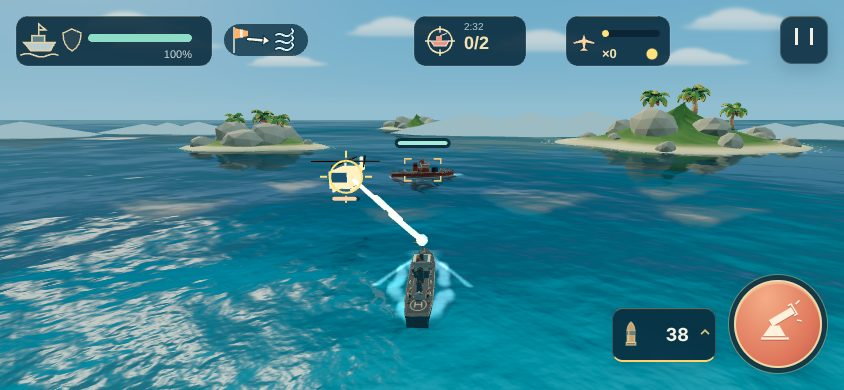
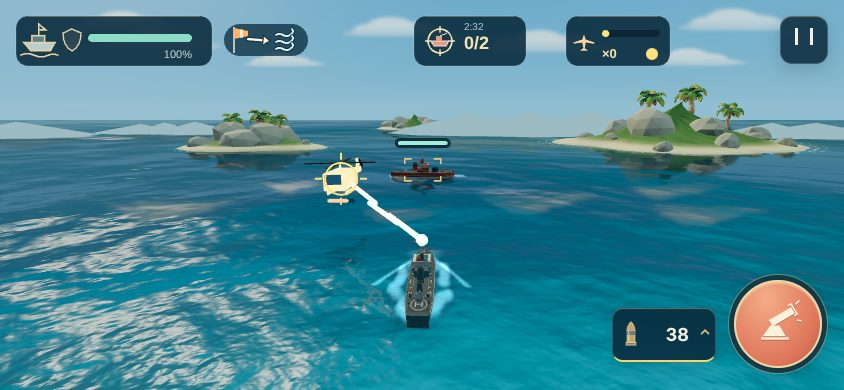
final-fix-fable: עבודה בתהליך (המשך 6)
Claude-Session: https://claude.ai/code/session_018LH5qTrdzhMgWeLGd6RUNk

diff --git a/workout/island/minigames/boar-island/game.js b/workout/island/minigames/boar-island/game.js
@@ -23,6 +23,22 @@ let aimStick=null,firePointer=null,aimZone=null,fireBtn=null,aimShots=0;
 const FIRE_V21=AIMSTICK&&new URLSearchParams(location.search).get('boarFire')!=='v20';
 let fireSource='none';const shotsBy={button:0,scene:0,keyboard:0,mouse:0,auto:0,qa:0,unknown:0},abilityBy={rocket:0,frost:0,fury:0};let stickNoButton=0,abilityFromLeft=0;
 function setFiring(on,source){pointer.down=on;fireSource=on?source:'none';}
+// 11/11/2026 (Roy, phone): the HUD hid the water where the boars come out. Compact HUD: one weapon-switch button, small round ability buttons in the right column,
+// coins/defence as thin strips in the top corners, a small wave counter, no bottom bar. `?boarHud=v20` restores the v20 cards.
+const HUD_V21=!LEGACY&&new URLSearchParams(location.search).get('boarHud')!=='v20';
+let weaponBtn=null,frames=0;
+function nextWeapon(){const owned=WEAPON_ORDER.filter(k=>save.weapons[k]);if(owned.length<2){toast('נשק נוסף נפתח במוסך');return;}switchWeapon(owned[(owned.indexOf(current)+1)%owned.length]);}
+function buildCompactHud(){
+  $('game').classList.add('hudv21');
+  weaponBtn=document.createElement('button');weaponBtn.id='weapon-btn';weaponBtn.type='button';weaponBtn.setAttribute('aria-label','החלפת נשק');
+  weaponBtn.innerHTML='<b class="wicon"></b><strong class="wname"></strong><small class="wammo"></small><i class="wbar"></i>';weaponBtn.onclick=nextWeapon;
+  $('battle-ui').append(weaponBtn);
+}
+function updateWeaponBtn(){if(!weaponBtn)return;const w=WEAPONS[current],ws=wsCache[current],s=wstate[current];weaponBtn.querySelector('.wicon').textContent=w.icon;weaponBtn.querySelector('.wname').textContent=w.short;
+  if(!ws||!s)return;const bar=weaponBtn.querySelector('.wbar');
+  if(ws.mode==='heat'){weaponBtn.querySelector('.wammo').textContent=s.overheated?'מתקרר':`חום ${Math.round(s.heat)}%`;bar.style.width=`${s.heat}%`;bar.style.background=s.overheated?'#ed7451':s.heat>70?'#ffb067':'#ffd06b';}
+  else{weaponBtn.querySelector('.wammo').textContent=s.reload>0?'טוען':`${s.ammo} / ${ws.mag}`;bar.style.width=`${s.reload>0?(1-s.reload/s.reloadMax)*100:s.ammo/ws.mag*100}%`;bar.style.background=s.reload>0?'#ffb067':'#9ad9c0';}
+  weaponBtn.classList.toggle('hot',!!s.overheated||s.reload>0);}
 function releaseFire(){pointer.down=false;fireSource='none';firePointer=null;fireBtn?.classList.remove('held');}
 function lowPulse(){if(LEGACY||mode!=='battle'||hp<=0||hp/stats(save).hp>.3)return 0;return .16+.1*Math.sin(elapsed*6);}
 let islandPaused=false,islandDisposed=false,islandFrame,islandReady=false;
@@ -169,7 +185,7 @@ function init(){
   for(const [x,z,k,y] of [[-8,-3,'scout'],[0,-8,'crab'],[7.5,-4,'runner'],[5,-18,'manta',9.5]]){const e=makeEnemy(k);e.root.position.set(x,y??groundY(x,z),z);e.baseX=x;e.root.rotation.y=-x*.03;scene.add(e.root);showcase.push(e);}
   updateQualityLabel();
   setMode('menu');resize();updateStartLabel();
-  if(AIMSTICK)buildAimControls();
+  if(AIMSTICK)buildAimControls();if(HUD_V21)buildCompactHud();
   if(QA)installQA();
   if(window.BOAR_BENCH||location.hash==='#bench')installBench();
   islandFrame=requestAnimationFrame(frame);
@@ -749,6 +765,7 @@ function updateHud(){
   $('rocket').querySelector('i').style.width=`${(1-rocketCooldown/st.rocketCd)*100}%`;$('frost').querySelector('i').style.width=`${(1-frostCooldown/st.frostCd)*100}%`;
   $('fury-text').textContent=furyTimer>0?`${Math.ceil(furyTimer)} שנ׳`:fury>=100?'מוכן':`${Math.floor(fury)}%`;$('fury').disabled=fury<100||furyTimer>0;$('fury').classList.toggle('ready',fury>=100);$('fury').querySelector('i').style.width=`${furyTimer>0?furyTimer/7*100:fury}%`;
   $('frost-veil').style.opacity=frostTimer>0?1:0;
+  updateWeaponBtn();
 }
 
 // ---------- shop ----------
@@ -787,6 +804,7 @@ function frame(t){
   if(islandDisposed)return;
   islandFrame=requestAnimationFrame(frame);
   if(islandPaused){lastTime=t;return;}
+  frames++;
   if(visible&&lastTime)adapt(t-lastTime);const raw=Math.min(.05,(t-lastTime)/1000||.016);lastTime=t;if(!visible)return;
   slowmo=Math.max(0,slowmo-raw);const dt=raw*(slowmo>0?.35:1);elapsed+=dt;world.update(elapsed);weather.update(raw);
   if(mode==='battle'){for(let i=0;i<timeScale;i++){updateBattle(dt);if(mode!=='battle')break;}}
@@ -905,7 +923,7 @@ async function runBench(){
 }
 function installQA(){
   window.__three={scene,renderer,camera,sea,sun};
-  window.__boar={get state(){return {shots:roundShots,aim:{x:+pointer.x.toFixed(3),y:+pointer.y.toFixed(3)},firing:pointer.down,fireSource,shotsBy:{...shotsBy},stickNoButton,abilityBy:{...abilityBy},abilityFromLeft,stick:!!aimStick,fireHeld:firePointer!==null,flags:{TOUCH,AIMSTICK,FIRE_V21,LEGACY},overheated:!!wstate[current]?.overheated,cool:+(wstate[current]?.cool||0).toFixed(3),swapTimer:+swapTimer.toFixed(3),paused:islandPaused,mode,wave,hp,coins:save.coins,killed,remaining:remaining(),enemies:enemies.map(e=>({kind:e.kind,hp:Math.round(e.hp),z:+e.root.position.z.toFixed(1)})),current,heat:wstate[current]?.heat,ammo:wstate[current]?.ammo,boss:boss?.kind||null,shells:shells.length,shots:roundShots,hits:roundHits,crits:roundCrits,fury,sound:soundEnabled,audio:sfx.ctx?.state||'none',save:JSON.parse(JSON.stringify(save))};},
+  window.__boar={get state(){return {shots:roundShots,aim:{x:+pointer.x.toFixed(3),y:+pointer.y.toFixed(3)},firing:pointer.down,fireSource,shotsBy:{...shotsBy},stickNoButton,abilityBy:{...abilityBy},abilityFromLeft,stick:!!aimStick,fireHeld:firePointer!==null,flags:{TOUCH,AIMSTICK,FIRE_V21,HUD_V21,LEGACY},frames,overheated:!!wstate[current]?.overheated,cool:+(wstate[current]?.cool||0).toFixed(3),swapTimer:+swapTimer.toFixed(3),paused:islandPaused,mode,wave,hp,coins:save.coins,killed,remaining:remaining(),enemies:enemies.map(e=>({kind:e.kind,hp:Math.round(e.hp),z:+e.root.position.z.toFixed(1)})),current,heat:wstate[current]?.heat,ammo:wstate[current]?.ammo,boss:boss?.kind||null,shells:shells.length,shots:roundShots,hits:roundHits,crits:roundCrits,fury,sound:soundEnabled,audio:sfx.ctx?.state||'none',save:JSON.parse(JSON.stringify(save))};},
     setSave(o){save=sanitizeSave(o);persist();refreshWeaponCache();buildWeaponBar();showWeapon(current);updateStartLabel();},
     start(n){save.nextWave=n;beginWave();},spawn(k,z){const e=spawn(k);if(z!==undefined)e.root.position.z=z;return enemies.length;},
     aim(x,y){pointer.x=x;pointer.y=y;},fire(on){setFiring(on,'qa');},weapon(k){switchWeapon(k);},

diff --git a/workout/island/minigames/boar-island/style.css b/workout/island/minigames/boar-island/style.css
@@ -154,3 +154,45 @@
   .aimstick.firev21 .wslot{height:56px}
   .aimstick.firev21 .abilities{left:auto;right:80px;bottom:140px;flex-direction:column;gap:7px}
 }
+
+/* 11/11/2026 (Roy, phone): compact HUD. The cards left the middle of the screen: one weapon-switch button and a column of small round ability buttons on the right,
+   thin strips for coins and island defence in the top corners, a small wave counter, no bottom bar. `?boarHud=v20` restores the cards. */
+.hudv21 #weapons,.hudv21 .ammo-panel{display:none}
+#game[data-mode=battle].hudv21 .brand,#game[data-mode=paused].hudv21 .brand{display:none}
+.hudv21 #hud{padding:8px 12px}
+.hudv21 .combat-hud{margin:0;position:static;display:block}
+.hudv21 .coin-block{position:absolute;top:8px;left:12px;grid-template-columns:auto auto;column-gap:6px;padding:4px 10px;min-height:30px;border-radius:15px;background:#10242db8}
+.hudv21 .coin-block .coin{font-size:16px;grid-row:auto}
+.hudv21 .coin-block b{font-size:15px;line-height:1}
+.hudv21 .coin-block small{display:none}
+.hudv21 .health-block{position:absolute;top:8px;right:12px;width:150px;padding:4px 10px;border-radius:15px;background:#10242db8}
+.hudv21 .health-block>div:first-child{font-size:10px;margin-bottom:3px}
+.hudv21 .health-block .bar{height:4px}
+.hudv21 .wave-block{top:6px;min-width:0;display:flex;gap:8px;align-items:baseline;white-space:nowrap;text-shadow:0 1px 4px #000}
+.hudv21 .wave-block small{display:inline;font-size:10px;letter-spacing:0}
+.hudv21 .wave-block b{display:inline;font-size:20px;line-height:1}
+.hudv21 .wave-block span{font-size:11px}
+.hudv21 .battle-hint,.hudv21 .battle-hint.touch-hint{top:34px;font-size:11px}
+.hudv21 #boss-hud{top:56px}
+.hudv21 .abilities{left:auto;right:46px;bottom:28px;transform:none;flex-direction:column;gap:8px}
+.hudv21 .ability{width:52px;height:52px;border-radius:50%;border:1px solid #ffffff55;background:#10283aa6;box-shadow:0 2px 8px #0006;display:grid;place-items:center;align-content:center;padding:0}
+.hudv21 .ability strong,.hudv21 .ability kbd{display:none}
+.hudv21 .ability-icon{font-size:20px;line-height:20px}
+.hudv21 .ability small{font-size:8px;line-height:1;color:#cfe3ea}
+.hudv21 .ability i{height:2px}
+.hudv21 .ability.fury{background:#4a3a1fa6}
+#weapon-btn{position:absolute;z-index:5;right:18px;bottom:18px;width:64px;height:64px;border-radius:14px;border:1px solid #ffd06b80;background:#12273ab8;color:#f4f3e9;display:grid;place-items:center;align-content:center;gap:1px;padding:3px;overflow:hidden;box-shadow:0 3px 10px #0007;touch-action:manipulation;-webkit-touch-callout:none;user-select:none}
+#weapon-btn .wicon{font-size:20px;line-height:22px;color:var(--gold)}
+#weapon-btn .wname{font-size:10px;line-height:1.1}
+#weapon-btn .wammo{font-size:9px;color:#b9dde6;line-height:1.1}
+#weapon-btn .wbar{position:absolute;bottom:0;left:0;height:3px;width:100%;background:#ffd06b;transition:width .15s}
+#weapon-btn.hot .wammo{color:#ffb067}
+/* with the aim stick: weapon button left of the fire button, abilities in the column above the fire button */
+.aimstick.hudv21 #weapon-btn{right:136px;bottom:40px}
+.aimstick.hudv21 .abilities{right:46px;bottom:140px}
+.aimstick.hudv21 #aim-rest{width:110px;height:110px;border-color:#cfddd340;background:none}
+.aimstick.hudv21 #aim-rest:after{font-size:12px;color:#cfddd380}
+@media(max-width:700px){
+  .aimstick.hudv21 #weapon-btn{right:10px;bottom:140px}
+  .aimstick.hudv21 .abilities{right:84px;bottom:140px}
+}
